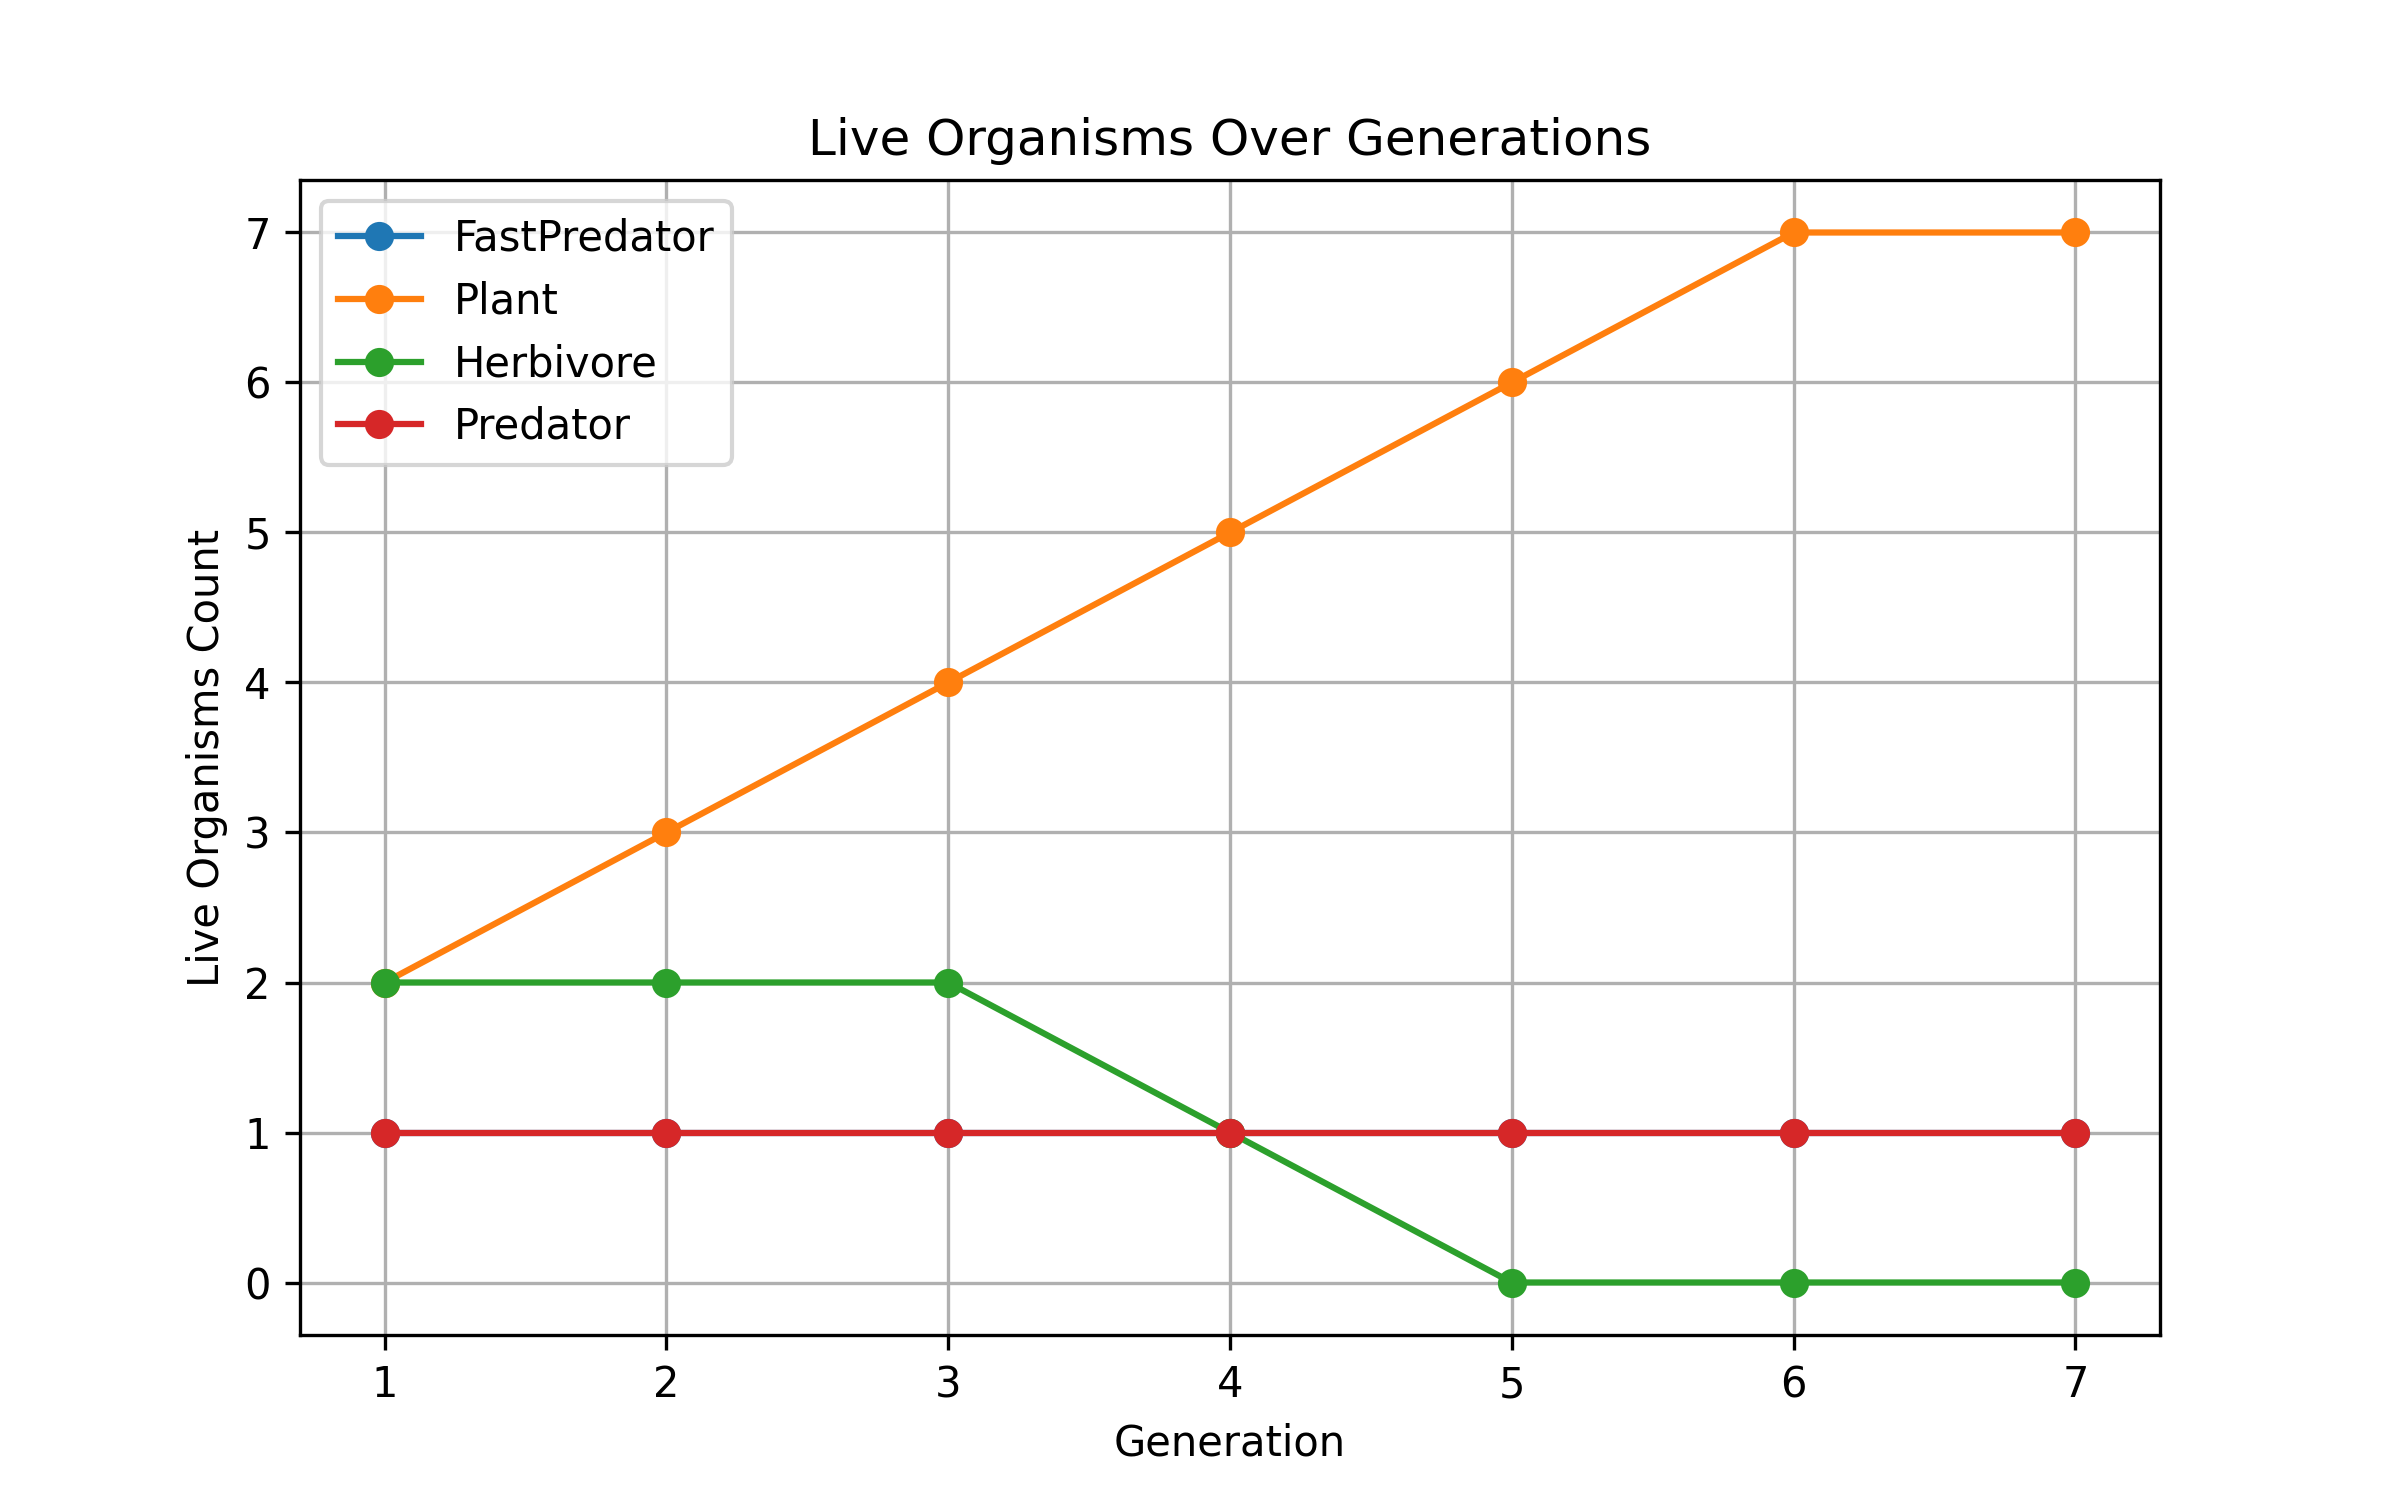
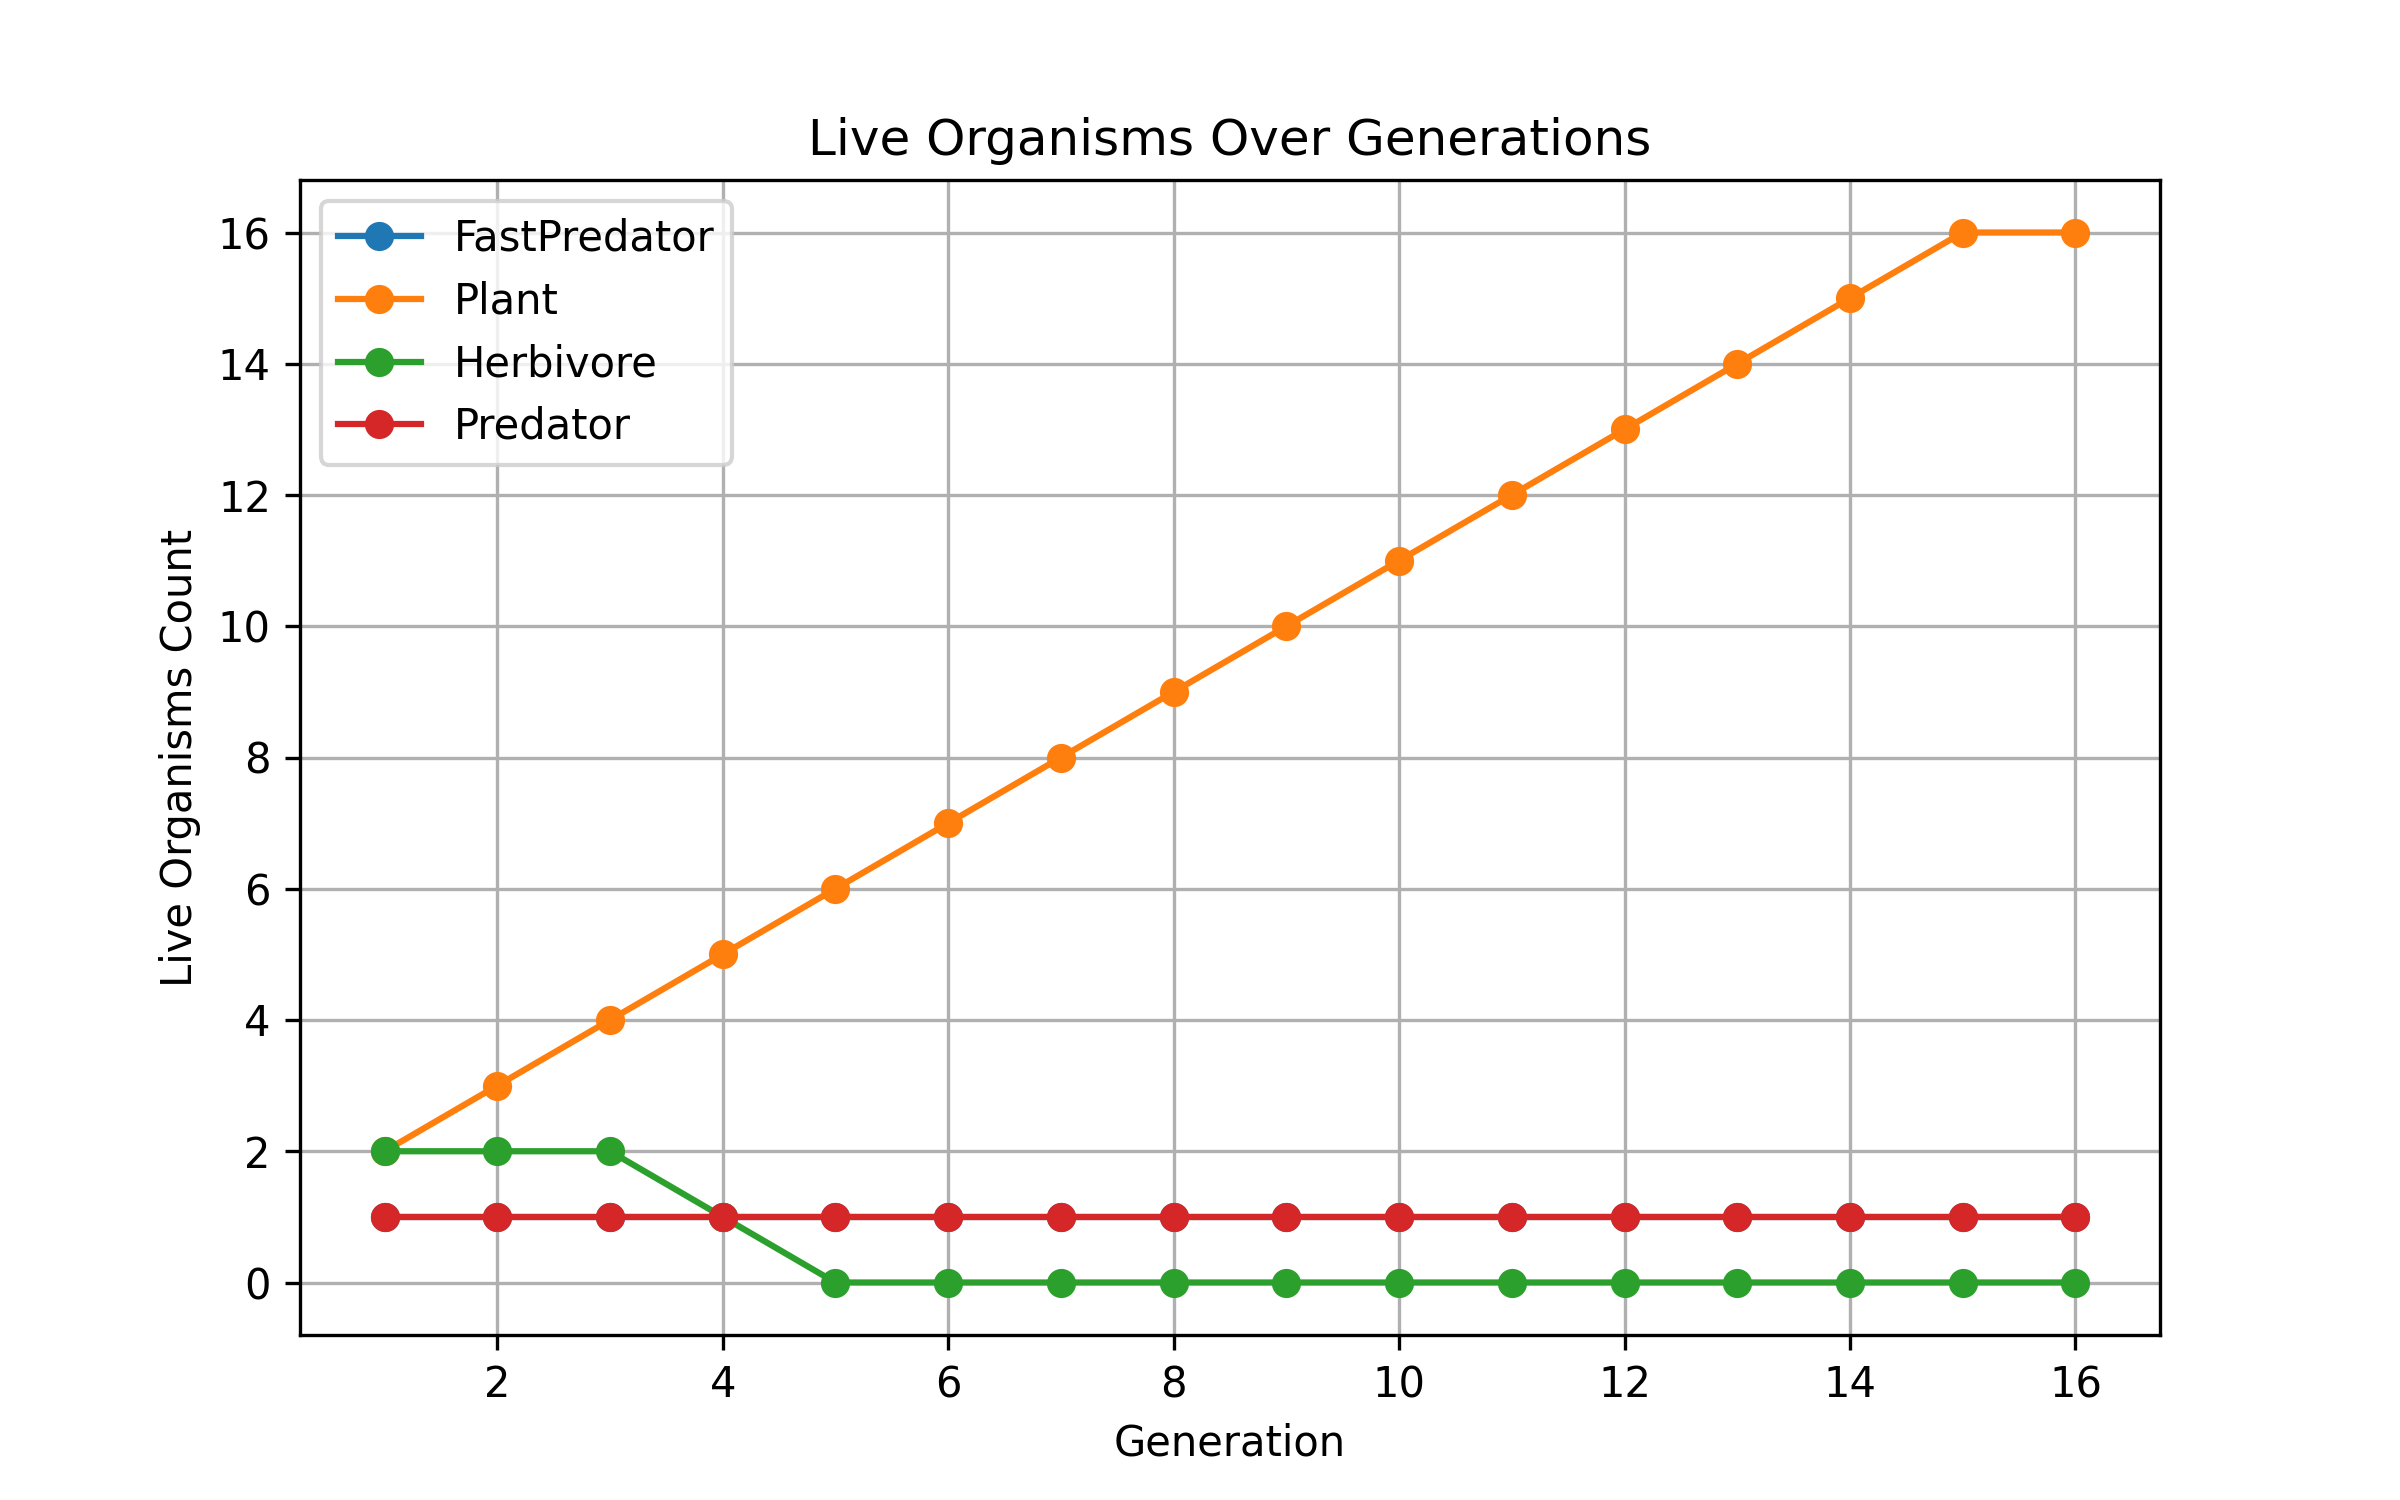
.

diff --git a/src/simulation.py b/src/simulation.py
@@ -16,7 +16,7 @@ class Simulation:
 
     def __init__(self) -> None:
         """Initialize the game simulation """
-        self.running = False
+        self.sim_status = None
         pygame.init()
         self.screen = pygame.display.set_mode((SCREEN_WIDTH, SCREEN_HEIGHT), pygame.RESIZABLE)
         pygame.display.set_caption("Nature Simulation")
@@ -25,11 +25,12 @@ class Simulation:
         self.temp_grid = Grid()  # It will be used at the update() function
 
         self.events_manager = EventsManager(self.grid)
+        self.cnt_generation = 0
 
     def update_grid(self) -> None:
         """ Updates the grid to the next state according to the game rules """
 
-        if self.running:
+        if self.sim_status == "play":
             self.temp_grid.cells = self.grid.cells.copy()  # Sync at start
 
             # The order of operations based on the place in the grid (left to right)
@@ -53,7 +54,7 @@ class Simulation:
 
                     if not isinstance(obj, Herbivore):
                         if obj.current_lifespan == obj.lifespan:
-                            self.events_manager.predator_eats_herbivore()
+                            self.events_manager.herbivore_reproduction(self.cnt_generation)
 
             self.temp_grid.add_random_plant()  # Plants appear randomly at empty spaces
 
@@ -61,16 +62,14 @@ class Simulation:
 
     def run(self):
         """ This function handles the simulation itself """
-        self.running = True
+        self.sim_status = "play"
         self.grid.load_param_from_yaml()  # Initialize the grid for the first time from .yaml file configuration
 
         self.create_alerts_observers()
 
-        cnt_generation = 0
-
         # Simulation Loop
-        while True:
-            cnt_generation += 1
+        while self.sim_status != "stop":
+            self.cnt_generation += 1
 
             # 1. User's Event Handling
             self.user_event_handler()
@@ -79,8 +78,8 @@ class Simulation:
             self.update_grid()
 
             # 3. Check predefined events of the game
-            self.events_manager.check_live_organisms(cnt_generation)
-            self.events_manager.check_plant_overgrowth(overgrown=0.9)
+            self.events_manager.check_live_organisms(self.cnt_generation)
+            self.events_manager.herbivore_reproduction(self.cnt_generation)
 
             # 4. Drawing
             self.screen.fill(BG_COLOR)
@@ -89,6 +88,8 @@ class Simulation:
             pygame.display.update()
 
             time.sleep(DELAY)  # Add time DELAY
+
+        self.events_manager.plot_all_graphs()
 
     def create_alerts_observers(self):
         """
@@ -105,14 +106,15 @@ class Simulation:
 
         Each observer is associated with an event type from `EventName` and a corresponding message."""
 
-        herbivore_extinct_alert = HerbivoreExtinctionAlert()
-        self.events_manager.add_observer(observer=herbivore_extinct_alert)
 
-        predator_eats_herbivore_alert = PredatorEatsHerbivoreAlert()
-        self.events_manager.add_observer(observer=predator_eats_herbivore_alert)
+        live_organisms_observer = LiveOrganismsObserver()
+        self.events_manager.add_observer(observer=live_organisms_observer)
 
-        plants_exceeds_alert = PlantsExceedsAlert()
-        self.events_manager.add_observer(observer=plants_exceeds_alert)
+        herbivore_reproductions_observer = HerbivoreReproductionsObserver()
+        self.events_manager.add_observer(observer=herbivore_reproductions_observer)
+
+        interesting_events_observer = InterestingEventsObserver()
+        self.events_manager.add_observer(observer=interesting_events_observer)
 
     def user_event_handler(self):
         """
@@ -139,9 +141,12 @@ class Simulation:
             elif event.type == pygame.KEYDOWN:
 
                 if event.key == pygame.K_RETURN:  # Start the simulation if the user presses the 'Enter' key
-                    self.running = True
+                    self.sim_status = "play"
                     pygame.display.set_caption("Game of Life is running")
 
-                elif event.key == pygame.K_SPACE:  # Stop the simulation if the user presses the 'Space' key
-                    self.running = False
+                elif event.key == pygame.K_SPACE:  # Pause the simulation if the user presses the 'Space' key
+                    self.sim_status = "pause"
                     pygame.display.set_caption("Game of Life has stopped")
+
+                elif event.key == pygame.K_ESCAPE:  # Stop the simulation if the user presses the 'Esc' key
+                    self.sim_status = "stop"

diff --git a/src/events/observers.py b/src/events/observers.py
@@ -1,6 +1,10 @@
+import os
 from abc import ABC, abstractmethod
+from typing import Dict
+from src.constants import FOLDER_PLOTS_PATH
 from src.events.event_name import EventName
-from src.utils import log_msg
+import pandas as pd
+import matplotlib.pyplot as plt
 
 
 class Observer(ABC):
@@ -10,12 +14,21 @@ class Observer(ABC):
     """
     event_name: EventName = None
 
+    def __init__(self):
+        self.df = pd.DataFrame({})
+        self.path_to_plot_folder = FOLDER_PLOTS_PATH
+        os.makedirs(self.path_to_plot_folder, exist_ok=True)  # Create directory if it doesn't exist
+
     @abstractmethod
-    def update(self, data):
+    def update(self, gen_cnt: int, stats_dict: Dict[str, int]=None):
         """
         Abstract method that subclasses must implement.
         This method defines how the observer responds when an event occurs.
         """
+
+    @abstractmethod
+    def plot_df(self):
+        """ """
 
 
 class LiveOrganismsObserver(Observer):
@@ -23,9 +36,34 @@ class LiveOrganismsObserver(Observer):
     """
     event_name = EventName.LIVE_ORGANISMS
 
-    def update(self, data):
-        """  """
-        log_msg(event_name=self.event_name, message="All Herbivores are extinct")
+    def update(self, gen_cnt: int, live_organisms_dict: Dict[str, int]=None):
+        """
+        Adds a new row to the DataFrame.
+
+        Parameters:
+        - gen_cnt (int): The generation count.
+        - live_organisms_dict (Dict[str, int], optional): A dictionary containing entity names as keys
+          and their respective counts as values.
+        """
+        if live_organisms_dict is None:
+            return
+
+        # Create a new row with the generation count and the organisms' data
+        new_row = {"Generation": gen_cnt, **live_organisms_dict}
+
+        # Append the new row to the DataFrame
+        self.df = pd.concat([self.df, pd.DataFrame([new_row])], ignore_index=True)
+
+
+    def plot_df(self):
+        """ """
+        self.df.set_index("Generation").plot(marker="o", figsize=(8, 5), grid=True,
+                                        title="Live Organisms Over Generations")
+        plt.xlabel("Generation")
+        plt.ylabel("Live Organisms Count")
+        plt.legend()
+        plt.savefig(self.path_to_plot_folder + "/live_organisms_per_gen.png", dpi=300)
+        plt.show()
 
 
 class HerbivoreReproductionsObserver(Observer):
@@ -33,16 +71,34 @@ class HerbivoreReproductionsObserver(Observer):
     """
     event_name = EventName.HERBIVORE_REPRODUCTIONS
 
-    def update(self, data):
+    def update(self, gen_cnt: int, *stats_dict: Dict):
         """  """
-        log_msg(event_name=self.event_name, message="Predator Eats Herbivore")
 
+
+    def plot_df(self):
+        """ """
+        self.df.set_index("Generation").plot(marker="o", figsize=(8, 5), grid=True,
+                                        title="Herbivore Reproductions Over Generations")
+        plt.xlabel("Generation")
+        plt.ylabel("herbivore_reproductions Count")
+        plt.legend()
+        plt.savefig(self.path_to_plot_folder + "/herbivore_reproductions_per_gen.png", dpi=300)
+        plt.show()
 
 class InterestingEventsObserver(Observer):
     """
     """
     event_name = EventName.INTERESTING_EVENTS
 
-    def update(self, data):
+    def update(self, gen_cnt: int, *stats_dict: Dict):
         """  """
 
+    def plot_df(self):
+        """ """
+        self.df.set_index("Generation").plot(marker="o", figsize=(8, 5), grid=True,
+                                        title="Live Organisms Over Generations")
+        plt.xlabel("Generation")
+        plt.ylabel("Live Organisms Count")
+        plt.legend()
+        plt.savefig(self.path_to_plot_folder + "/interesting_events.png", dpi=300)
+        plt.show()

diff --git a/src/events/event_manager.py b/src/events/event_manager.py
@@ -1,5 +1,4 @@
 from typing import Dict, List
-from src.entities.plant import Plant
 from src.events.event_name import EventName
 from src.events.observers import Observer
 from src.utils import get_target_indices
@@ -54,22 +53,26 @@ class EventsManager:
         except (ValueError, KeyError):
             pass  # Ignore if observer is not in the list or event_name is not found
 
-    def notify(self, event_name: EventName, data=None):
+    def notify(self, event_name: EventName, generation_counter: int, stats_dict: Dict[str, int]=None):
         """
         Notifies all observers subscribed to a specific event.
-
         Each observer will receive the event notification, allowing them to react accordingly.
-
         Args:
-            event_name (EventName): The event for which observers should be notified.
-            :param event_name:
-            :param data:
+            :param event_name: The event for which observers should be notified.
+            :param stats_dict:
+            :param generation_counter:
         """
         for observer in self.observers.get(event_name, []):
-            observer.update(data)  # Assuming Observer class has an update method
+            observer.update(generation_counter, stats_dict)  # Assuming Observer class has an update method
+
+    def plot_all_graphs(self):
+        for event_name, observers in self.observers.items():
+            for observer in observers:
+                print(f"Plotting for {observer.__class__.__name__}")
+                observer.plot_df()
 
     #--------------- Methods of business logic can notify subscribers about changes -----------------
-    def check_live_organisms(self, cnt_generation: int) -> None:
+    def check_live_organisms(self, generation_cnt: int) -> None:
         """
         """
         live_organisms_dict = {}
@@ -86,14 +89,16 @@ class EventsManager:
             live_organisms_dict[entity_name] = entity_obj_count
 
         # If no live organisms are found, notify all the relevant observers
-        if len(live_organisms_dict) is not 0:
-            self.notify(event_name=EventName.LIVE_ORGANISMS, data=(live_organisms_dict, cnt_generation))
+        if len(live_organisms_dict) != 0:
+            self.notify(event_name=EventName.LIVE_ORGANISMS, generation_counter=generation_cnt,
+                        stats_dict=live_organisms_dict,
+                        )
 
-    def herbivore_reproduction(self, cnt_generation: int) -> None:
+    def herbivore_reproduction(self, generation_cnt: int) -> None:
         """ """
-        self.notify(EventName.HERBIVORE_REPRODUCTIONS, cnt_generation)
+        self.notify(event_name=EventName.HERBIVORE_REPRODUCTIONS, generation_counter=generation_cnt)
 
-    def check_interesting_events(self, cnt_generation: int) -> None:
+    def check_interesting_events(self, generation_cnt: int) -> None:
         """
         """
 

diff --git a/src/utils.py b/src/utils.py
@@ -2,7 +2,7 @@ import logging
 import os
 import numpy as np
 import yaml
-from src.constants import FOLDER_CONFIG_PATH
+from src.constants import FOLDER_CONFIG_PATH, LOG_DIR
 from src.events.event_name import EventName
 
 # Load the configuration once at the start
@@ -47,7 +47,6 @@ def get_target_indices(grid, target_object):
 
 
 # Ensure the logs directory exists
-LOG_DIR = "logs"
 os.makedirs(LOG_DIR, exist_ok=True)
 
 # Configure logging

diff --git a/src/constants.py b/src/constants.py
@@ -12,4 +12,8 @@ WHITE_COLOR = (255, 255, 255)
 
 FOLDER_CONFIG_PATH = "config.yaml"
 
+FOLDER_PLOTS_PATH = "plots"
+
+LOG_DIR = "logs"
+
 DELAY = 1   # delay in seconds
